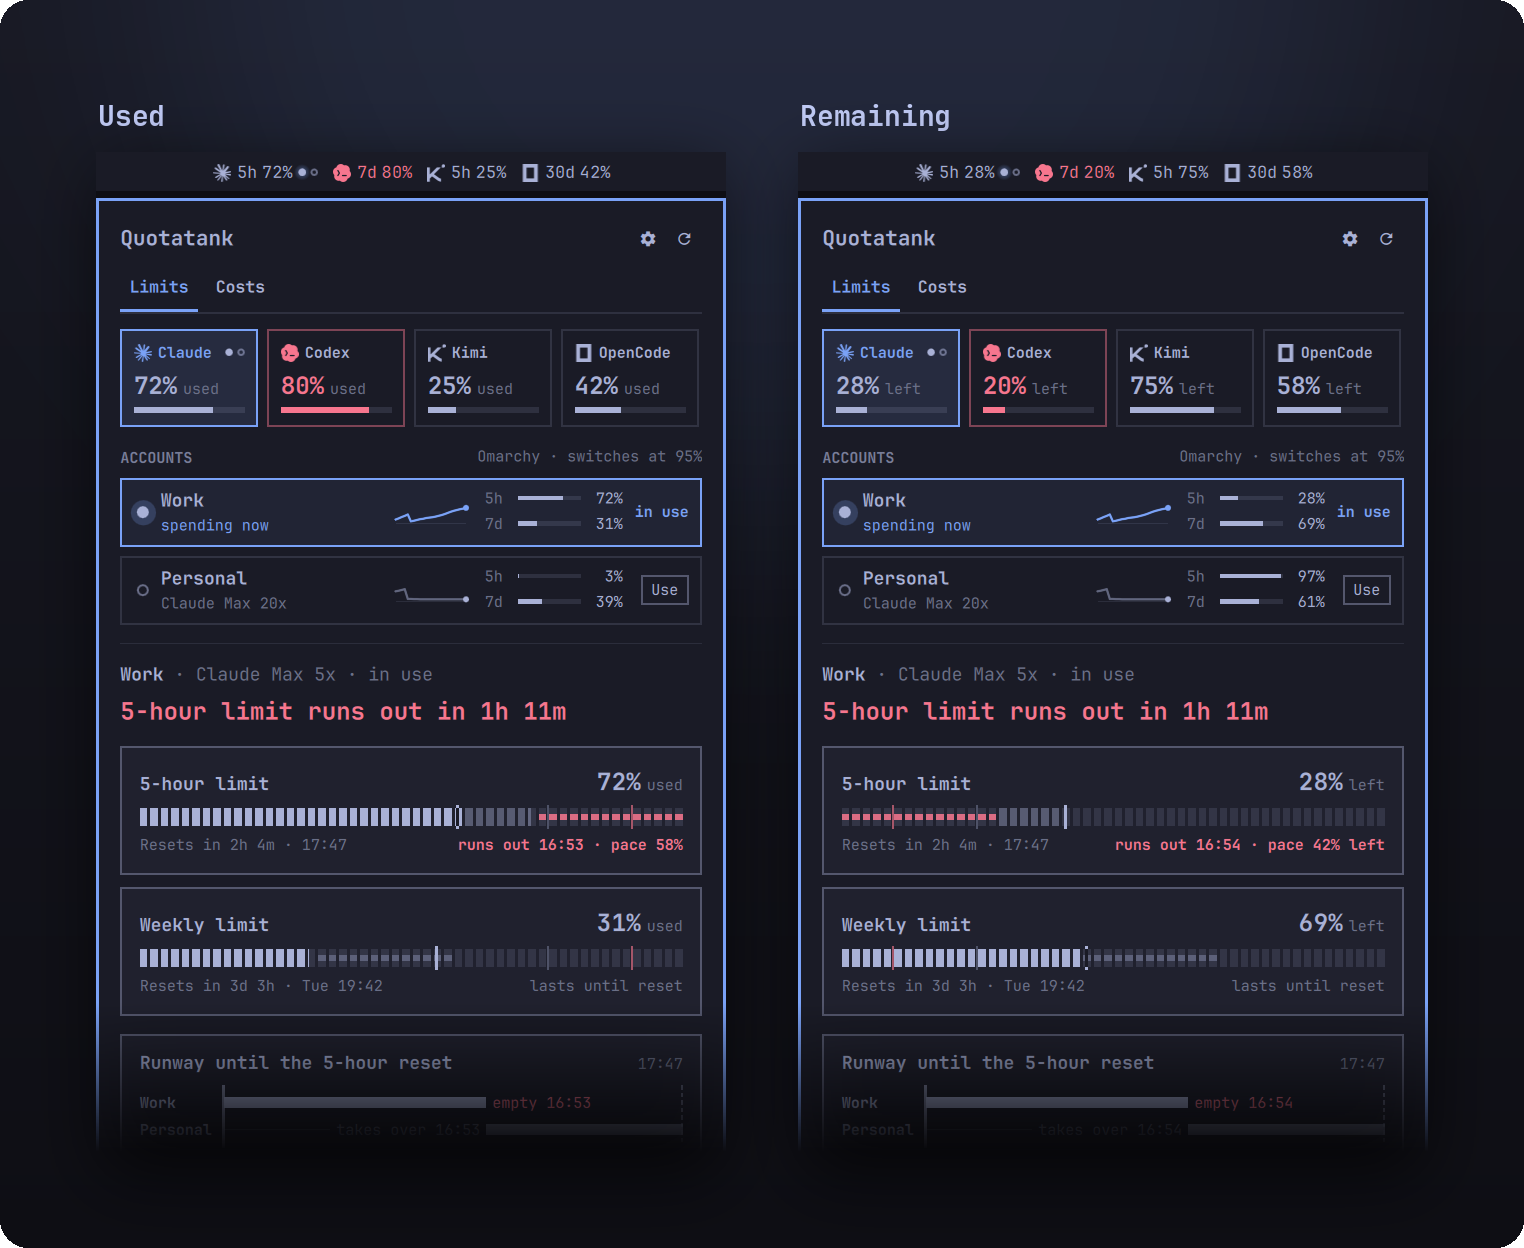
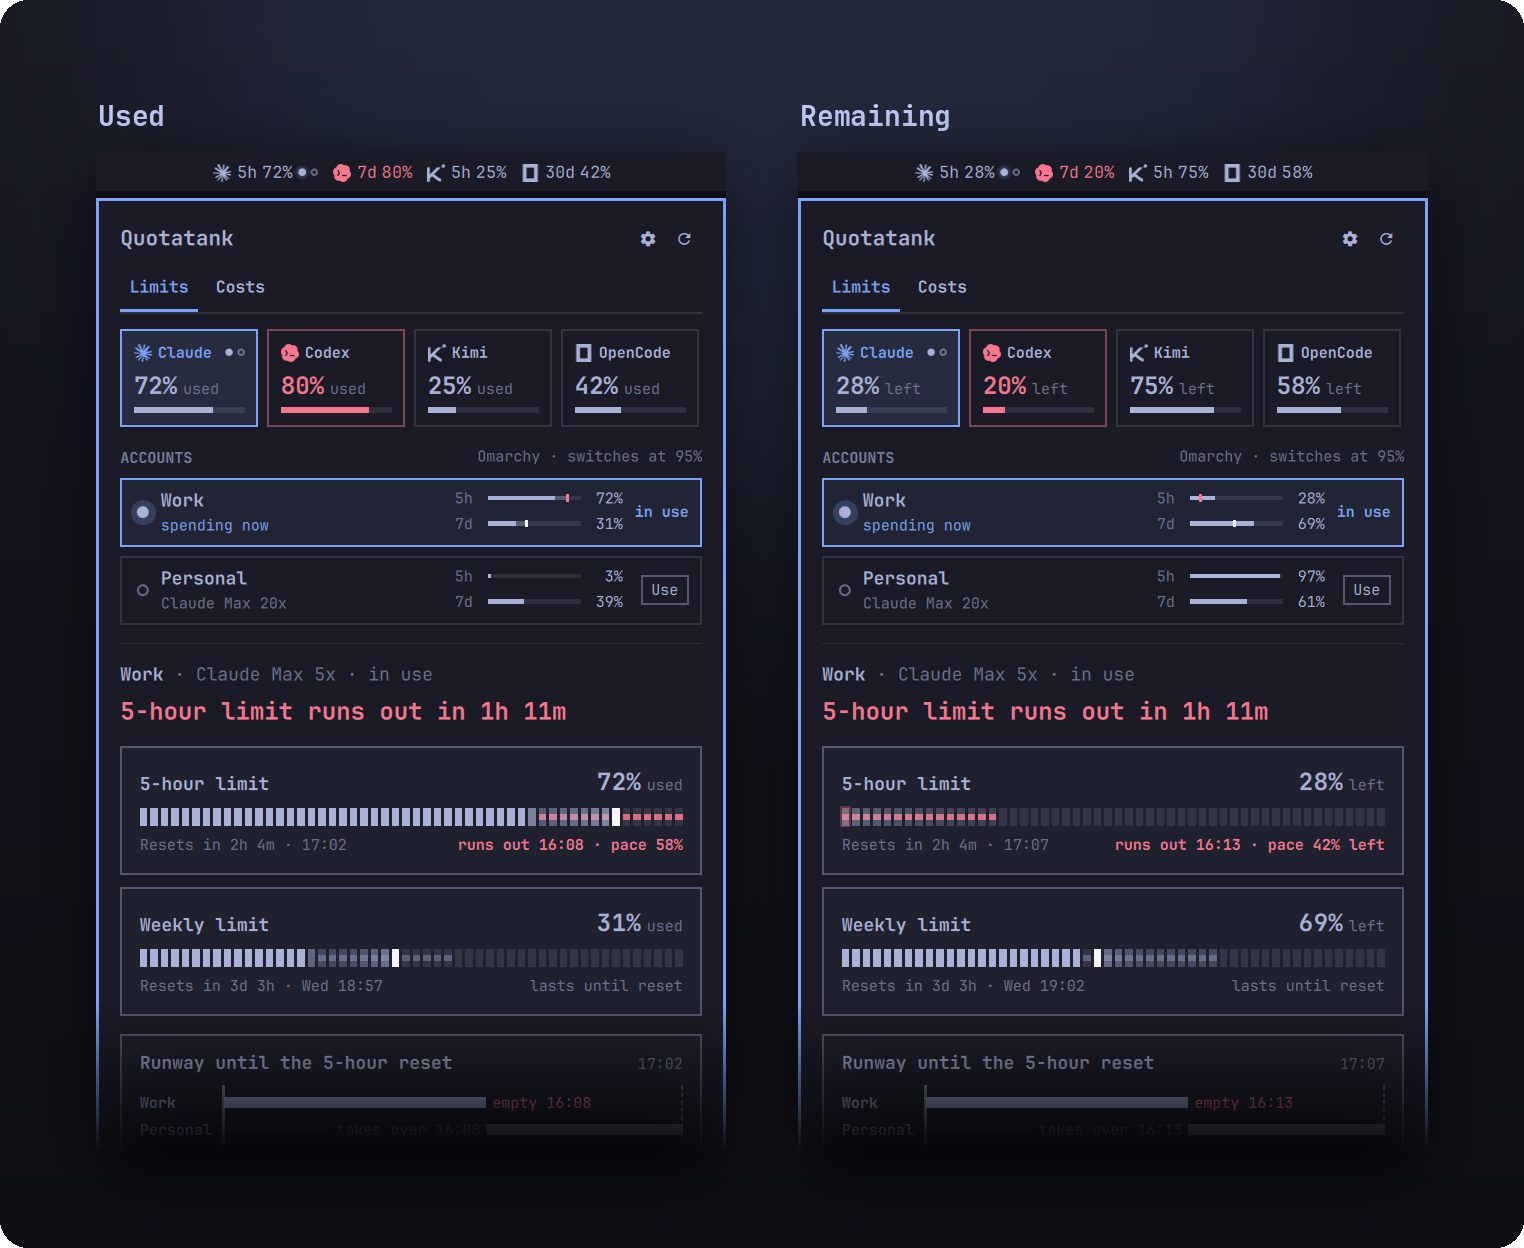
README and marketplace images for 3.1: live meters, six meter styles
Recaptured the Limits shots with the new meters and no first-run hints, added
styles.png (Glass, Tanks, Rings, Race, Split-flap, Dot matrix, rendered from
the widget's own QML) with a Meter styles section, and refreshed preview.png.
Changelog: the Dot matrix scan and the style fade under Unreleased.

diff --git a/README.md b/README.md
@@ -10,7 +10,7 @@
 
 </div>
 
-![The menu bar chips above the Limits panel: tiles for Claude, Codex, Kimi, and OpenCode, two Claude accounts with Work spending now and in use and Personal with room and a Use button, the headline 5-hour limit runs out in 1h 11m, limit cards with a dashed forecast, and a runway card where Personal takes over when Work runs out; beside it the Costs tab with a total 38% above the previous 30 days, a daily chart, providers, a model breakdown, and a heatmap of when you spend](https://raw.githubusercontent.com/JanitorHead/omarchy-quotatank/main/docs/screenshots/hero.png)
+![The menu bar chips above the Limits panel: tiles for Claude, Codex, Kimi, and OpenCode, two Claude accounts with Work spending now and in use and Personal with room and a Use button, the headline 5-hour limit runs out in 1h 11m, limit cards with a dashed forecast, and a runway card where Personal takes over when Work runs out; beside it the Costs tab with a total 26% above the previous 30 days, a daily chart, providers, a model breakdown, and a heatmap of when you spend](https://raw.githubusercontent.com/JanitorHead/omarchy-quotatank/main/docs/screenshots/hero.png)
 
 Quotatank reads the plan limits and prepaid balances of **50 AI coding providers** with the sign-ins and keys you already have, on this computer and on the other computers you reach over SSH: several accounts per provider, every account behind a **CLIProxyAPI** server, and everything **omp (Oh My Pi)** is signed in to. A second tab shows what your coding agents would cost at API rates, by day, model, project, and subagent.
 
@@ -128,6 +128,12 @@ Every limit card has a meter and a forecast: a dashed stretch after the fill sho
 ![Three panels: Codex with a used-up weekly limit and when it comes back, OpenCode Go with a sign-in expired card that quotes the command to run, and two Claude accounts both used up with a gap until the reset](https://raw.githubusercontent.com/JanitorHead/omarchy-quotatank/main/docs/screenshots/states.png)
 
 When something is wrong, the panel says what and what to do: a used-up limit names when it comes back, a failed refresh names the command to run, and a drained balance says it needs topping up. A signed-out provider has a **Sign in** button; the panel refreshes on its own until the sign-in lands. An old reading fades and says how old it is.
+
+### Meter styles
+
+![Six of the meter styles on the same two limits, each mid-sweep: Glass, Tanks, Rings, Race, Split-flap and Dot matrix](https://raw.githubusercontent.com/JanitorHead/omarchy-quotatank/main/docs/screenshots/styles.png)
+
+**Settings → Display → Meter style** offers twenty looks for limit meters, each with its own motion while the account spends: block meters (Projection, the default), lines such as Race against the clock, Glass with an aurora in its fill, a Split-flap board, a Dot matrix with a scan through its forecast, and Tanks, Gauges, Rings and Compact, which put every limit of an account in one card. Account rows follow the chosen style. A preview of a sample account that is spending sits under the setting; its arrows step through the styles.
 
 ## Menu bar
 

diff --git a/CHANGELOG.md b/CHANGELOG.md
@@ -4,6 +4,17 @@ All notable changes to this project will be documented here. The format follows
 [Keep a Changelog](https://keepachangelog.com/en/1.1.0/), and releases use
 [Semantic Versioning](https://semver.org/spec/v2.0.0.html).
 
+## Unreleased
+
+### Changed
+
+- **Dot matrix moves like the other styles.** Only its edge column moved, so it read as still; a three-column scan now runs through the forecast dots once a beat, rightward under Used and leftward under Remaining.
+- **Switching meter style fades.** A style picked while the meter is on screen, as with the Settings preview's arrows, fades in instead of cutting in.
+
+### Fixed
+
+- A digit removed mid-roll (switching style or provider while a figure rolled) logged a TypeError in the shell log.
+
 ## 3.1.0
 
 Quotatank 3.1 makes limit meters move while an account spends, in twenty styles you can preview and step through in Settings. It also bounds what another computer can send over SSH and takes in five contributions: Codex survives a slow rate-limit call, chips can stay on chosen screens, a chip opens the account it shows, Settings no longer go blank after a sign-in, and the live UI checks run again.
